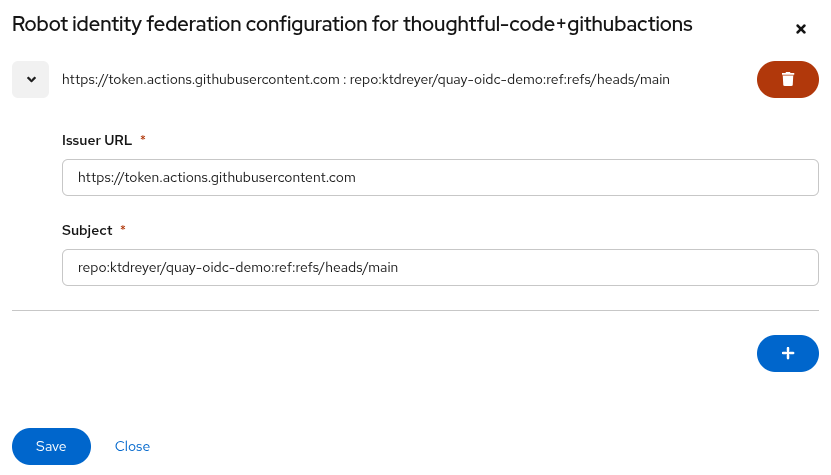
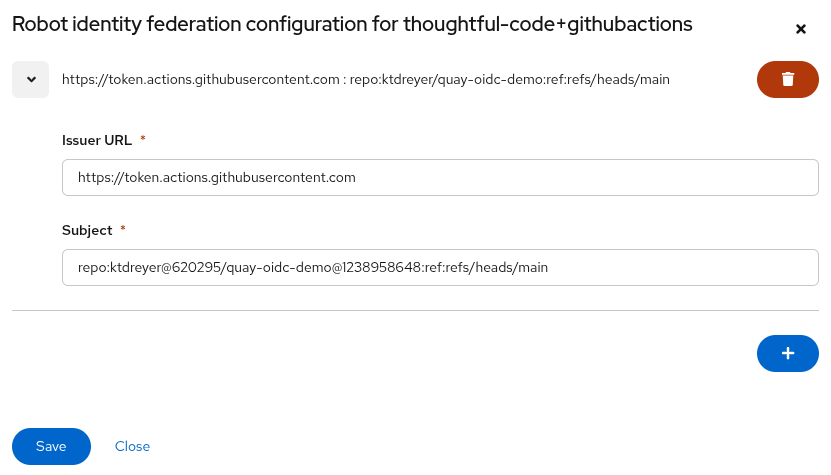
add GitHub's immutable subject claim prefix
New change coming to GitHub July 2026.
Instruct users to use it by default.

Changed region(s): [[0.1805, 0.5305, 0.6619, 0.5895]]

diff --git a/quay-oidc.md b/quay-oidc.md
@@ -13,7 +13,7 @@ This makes it easier to ship your software because you can add new repositories 
 **In short:**
 
 1. **Create a robot account** in Quay.
-2. **Configure robot federation** pointing to GitHub's OIDC issuer and set the subject to match your repository (example: `repo:ktdreyer/quay-oidc-demo:ref:refs/heads/main`).
+2. **Configure robot federation** pointing to GitHub's OIDC issuer and set the subject to match your repository (example: `repo:ktdreyer@620295/quay-oidc-demo@1238958648:ref:refs/heads/main`).
 3. In GitHub Action workflow, **request an OIDC token** from Github, **exchange it** for a short-lived Quay robot token, and **use that token** to log in to Quay and push/pull images.
 
 I've based this guide on [Quay's product docs: Keyless authentication with robot accounts](https://docs.redhat.com/en/documentation/red_hat_quay/3.16/html/manage_red_hat_quay/keyless-authentication-robot-accounts).
@@ -42,6 +42,12 @@ Now we grant the robot write permission on the target repository:
 
 We're going to configure Quay.io to trust the OIDC tokens that your GitHub Action will mint.
 
+First, we need to determine your GitHub repo's subject claim string. To find this, go to your GitHub repository's **Settings > Actions > OIDC**. Check the **Use immutable subject claim** box ([default for new repos](https://github.blog/changelog/2026-04-23-immutable-subject-claims-for-github-actions-oidc-tokens/)), and copy the **Default subject claim prefix**. You'll append `:ref:refs/heads/main` to this when you configure your robot account federation in Quay.
+
+![GitHub repository OIDC settings page showing the immutable subject claim prefix](oidc-github-settings.png)
+
+Back to Quay:
+
    - In Quay, go to **Organizations > (your-quay-org) > Robot Accounts**
    - Click the kebab menu icon [⋮] and choose **Set robot federation**.
     ![quay kebab menu expanded to "Set Robot Federation"](set-robot-federation.png)
@@ -50,11 +56,11 @@ We're going to configure Quay.io to trust the OIDC tokens that your GitHub Actio
 | Field | Value |
 | :---- | :---- |
 | **Issuer URL** | `https://token.actions.githubusercontent.com` |
-| **Subject** | `repo:ktdreyer/quay-oidc-demo:ref:refs/heads/main` (adjust to match your GitHub repository and ref) |
+| **Subject** | `repo:ktdreyer@620295/quay-oidc-demo@1238958648:ref:refs/heads/main` (use your own repository's immutable subject prefix. See above.) |
 
    - Click **Save**.
 
-The `Subject` is important for security. It limits "who" and "what" can authenticate to Quay. In this example, I only allow actions in my `ktdreyer/quay-oidc-demo` Git repository, and only Actions that run directly on the `main` branch. Quay will reject tokens from actions on "work-in-progress" branches or forks.
+The `Subject` limits "who" and "what" can authenticate to Quay. In this example, I only allow actions in my `ktdreyer/quay-oidc-demo` Git repository, and only Actions that run directly on the `main` branch. Quay will reject tokens from actions on "work-in-progress" branches or forks.
 
 Note that the GitHub owner (`ktdreyer`) or org name string does not necessarily need to match the Quay org (`thoughtful-code`). The `subject` controls *who can mint the token*; the Quay org controls *where the image lands*.
 
@@ -130,7 +136,7 @@ Push a commit to `main` and watch the action run! If you've set everything corre
 
 ## Where to go from here
 
- * **Lock down who can push:** You could scope the `subject` to a GitHub Actions [environment](https://docs.github.com/en/actions/managing-workflow-runs-and-deployments/managing-deployments/managing-environments-for-deployment) with `repo:ktdreyer/quay-oidc-demo:environment:production`. This further limits which CI jobs can push images.
+ * **Lock down who can push:** You could scope the `subject` to a GitHub Actions [environment](https://docs.github.com/en/actions/managing-workflow-runs-and-deployments/managing-deployments/managing-environments-for-deployment) with `repo:ktdreyer@620295/quay-oidc-demo@1238958648:environment:production`. This further limits which CI jobs can push images.
 
  * **Beyond GitHub:** OIDC will also work with Git forges like [GitLab](https://docs.gitlab.com/ci/secrets/id_token_authentication/) or [Forgejo](https://forgejo.org/docs/next/user/actions/security-openid-connect/).
 

diff --git a/quay-oidc-api.md b/quay-oidc-api.md
@@ -50,13 +50,15 @@ curl -s -X PUT \
 
 The request body is a JSON array of `{"issuer", "subject"}` objects. You can include multiple entries to allow the same robot to authenticate from different repositories or providers.
 
+The subject includes immutable numeric IDs unique to your GitHub owner and repository. Find your prefix in your GitHub repository's **Settings > Actions > OIDC** under **Default subject claim prefix**, then append your ref (e.g. `:ref:refs/heads/main`). See [the blog post](quay-oidc.md#step-2-set-up-robot-account-federation-linking-quay-to-githubs-oidc-provider) for a screenshot.
+
 **Important:** POST uses **replace semantics** — it overwrites the entire federation config for the robot. If you want to add an entry to an existing config, GET the current config first, add the new entry to the array, and POST the full array back.
 
 ```bash
 curl -s -X POST \
   -H "Authorization: Bearer $QUAY_API_TOKEN" \
   -H "Content-Type: application/json" \
-  -d '[{"issuer":"https://token.actions.githubusercontent.com","subject":"repo:<owner>/<repo>:ref:refs/heads/<branch>"}]' \
+  -d '[{"issuer":"https://token.actions.githubusercontent.com","subject":"repo:<owner>@<owner-id>/<repo>@<repo-id>:ref:refs/heads/<branch>"}]' \
   "https://quay.io/api/v1/organization/<org>/robots/<robot-name>/federation"
 ```
 
@@ -66,7 +68,7 @@ Example with a single entry:
 curl -s -X POST \
   -H "Authorization: Bearer $QUAY_API_TOKEN" \
   -H "Content-Type: application/json" \
-  -d '[{"issuer":"https://token.actions.githubusercontent.com","subject":"repo:thoughtful-code/claudio:ref:refs/heads/main"}]' \
+  -d '[{"issuer":"https://token.actions.githubusercontent.com","subject":"repo:thoughtful-code@198234567/claudio@987654321:ref:refs/heads/main"}]' \
   "https://quay.io/api/v1/organization/thoughtful-code/robots/githubactions/federation"
 ```
 
@@ -77,8 +79,8 @@ curl -s -X POST \
   -H "Authorization: Bearer $QUAY_API_TOKEN" \
   -H "Content-Type: application/json" \
   -d '[
-    {"issuer":"https://token.actions.githubusercontent.com","subject":"repo:thoughtful-code/claudio:ref:refs/heads/main"},
-    {"issuer":"https://token.actions.githubusercontent.com","subject":"repo:ktdreyer/quay-oidc-demo:ref:refs/heads/main"}
+    {"issuer":"https://token.actions.githubusercontent.com","subject":"repo:thoughtful-code@198234567/claudio@987654321:ref:refs/heads/main"},
+    {"issuer":"https://token.actions.githubusercontent.com","subject":"repo:ktdreyer@620295/quay-oidc-demo@1238958648:ref:refs/heads/main"}
   ]' \
   "https://quay.io/api/v1/organization/thoughtful-code/robots/githubactions/federation"
 ```
